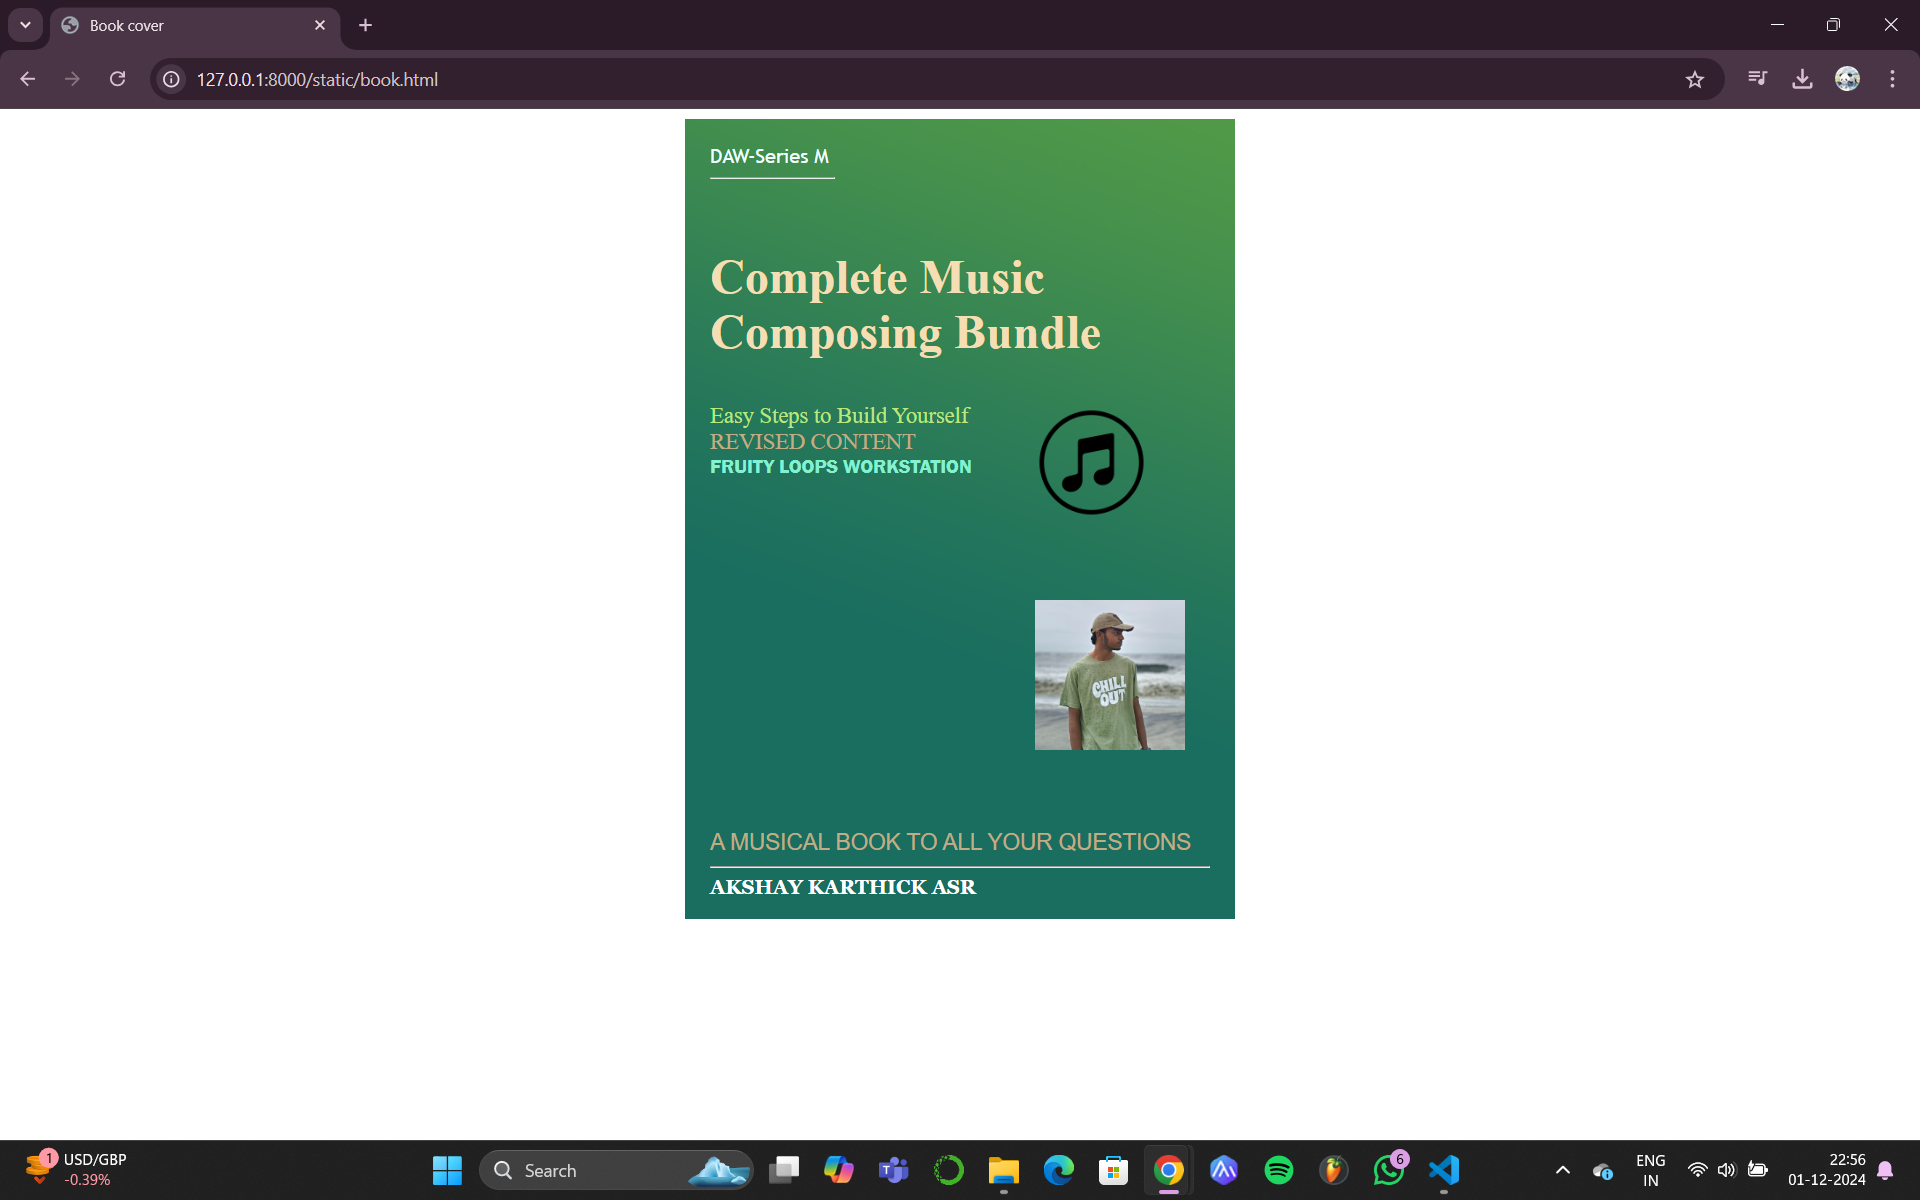
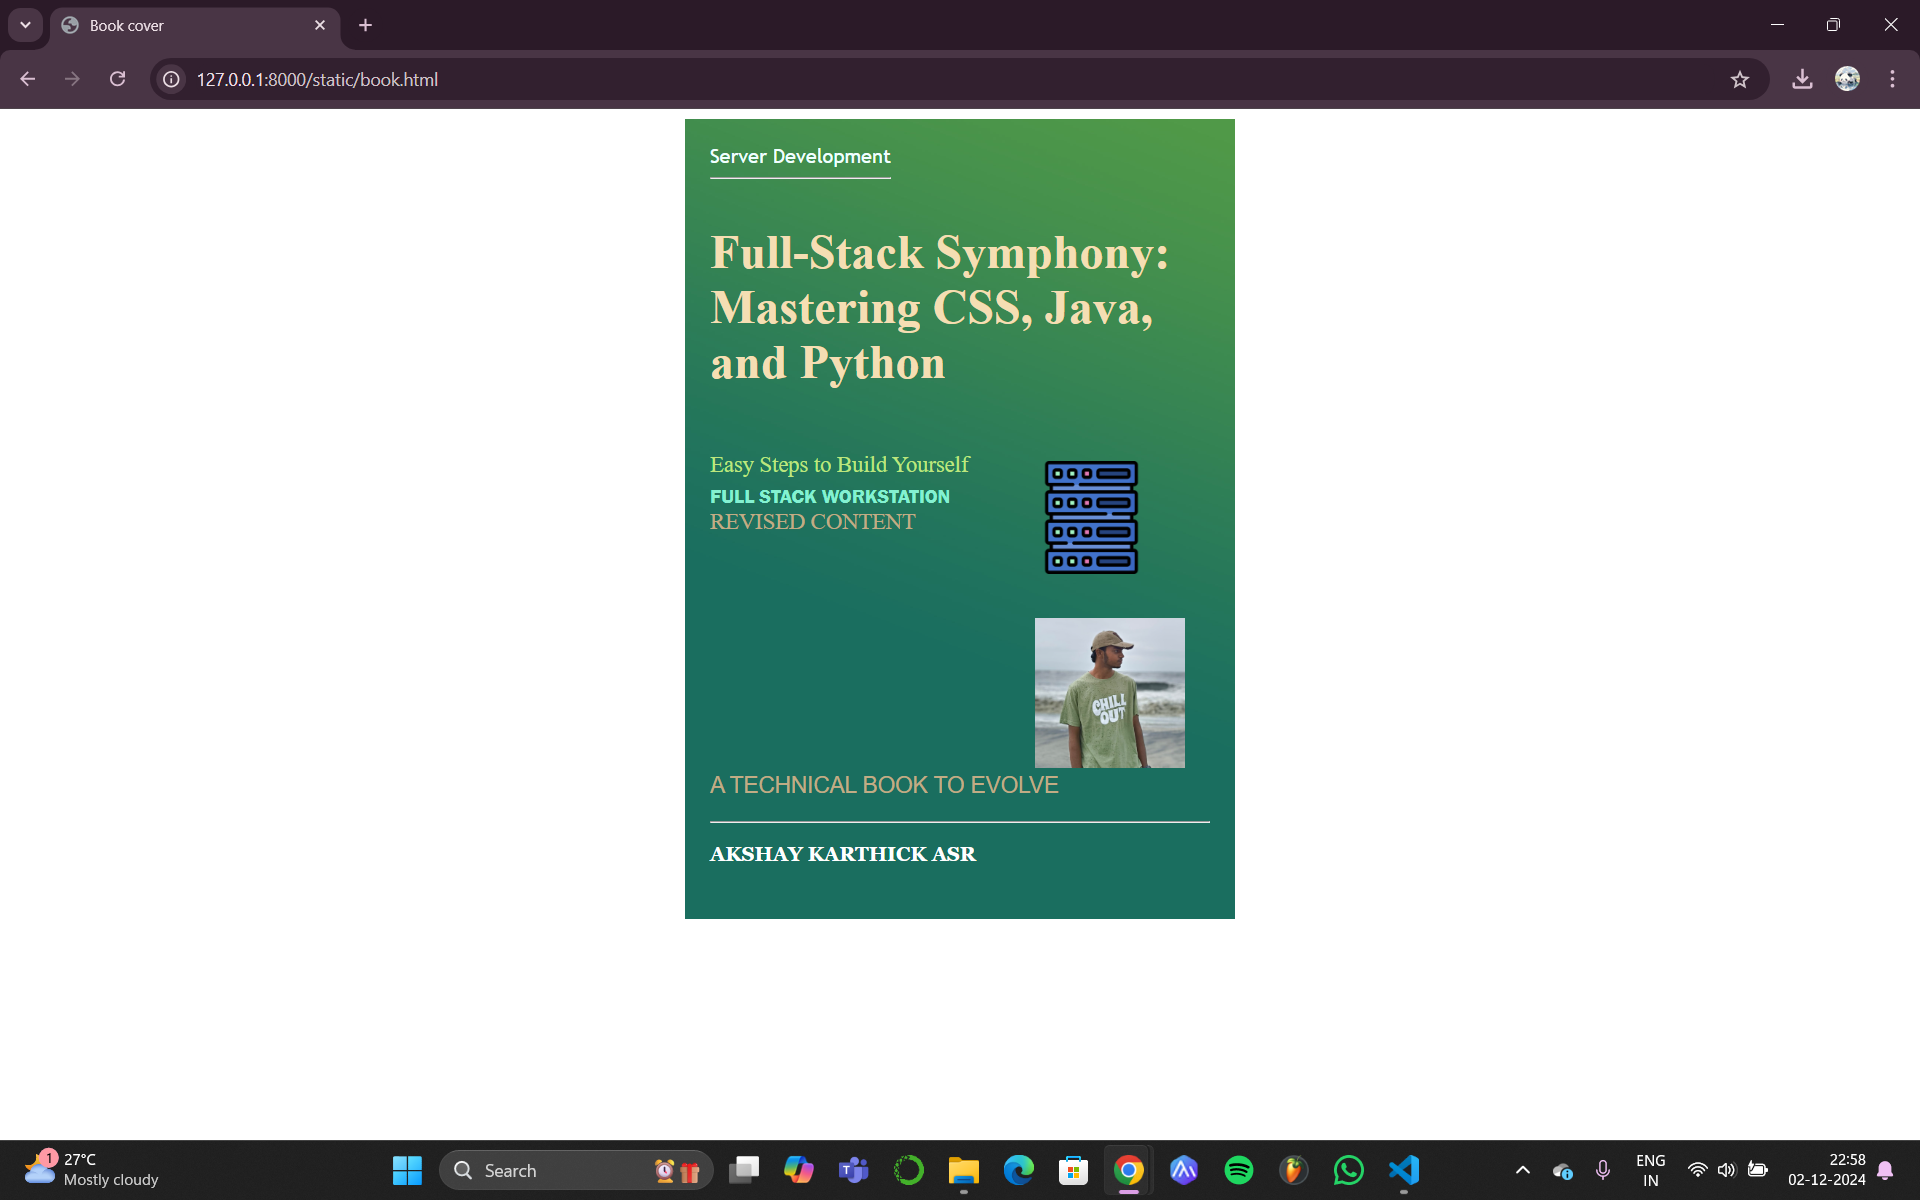
Success

diff --git a/Akshay/coverapp/static/book.html b/Akshay/coverapp/static/book.html
@@ -26,14 +26,14 @@
         
         
         .hrstyle{
-            width:100px;
+            width:145px;
         }
         .author{
         
             display: inline;
             position: relative;
             color:rgb(255, 255, 255);
-            top:170px;
+            top:100px;
             
             font-family:Georgia;
             font-size: medium;
@@ -44,13 +44,13 @@
             font-size: larger;
             text-align: left;
             position: relative;
-            top: 30px;
+            top: 10px;
         
         }
         .id {
             width:400px;
             position: relative;
-            top:180px;
+            top:100px;
             
         }
         .pub{
@@ -65,7 +65,7 @@
             font-size: medium;
             font-family: 'Franklin Gothic Medium', 'Arial Narrow', Arial, sans-serif;
             position:relative;
-            bottom:200px;
+            bottom:220px;
         
         }
         .subtitle{
@@ -73,18 +73,25 @@
             font-family:unicorn;
             font-size: large;
             position: relative;
-            top:40px;
+            top:35px;
+        }
+        .subtitle1{
+            color:azure;
+            font-family:unicorn;
+            font-size: large;
+            position: relative;
+            top:60px;
         }
         .sub{
             color:azure;
             font-family:Arial, Helvetica, sans-serif;
             font-size: large;
             position: relative;
-            top:340px;
+            top:250px;
         }
         .mypic{
             position: relative;
-            top: 135px;
+            top: 105px;
             left: 260px;
             width: 90px;
             height: 80px;
@@ -104,28 +111,28 @@
         <body>
         <div class="bookpage">
             <div class="insight">
-                DAW-Series M
+                Server Development
             </div>
             <div class="hrstyle">
                 <hr style="color:blanchedalmond">
             </div>
             <div class="booktitle">
-                <h1 style="font-family: 'Times New Roman', Times, serif; color:wheat;">Complete Music Composing Bundle</h1></div>
+                <h1 style="font-family: 'Times New Roman', Times, serif; color:wheat;">Full-Stack Symphony: Mastering CSS, Java, and Python</h1></div>
             <div class="subtitle" style="text-align: left;color: rgb(189, 229, 126);">
                  Easy Steps to Build Yourself
             </div>
-            <div class="subtitle" style="color: rgb(193, 172, 133);text-align: left;">
+            <div class="subtitle1" style="color: rgb(193, 172, 133);text-align: left;">
                  REVISED CONTENT
             </div>
             <div class="sub" style="color: rgb(193, 172, 133);text-align: left;">
-                A MUSICAL BOOK TO ALL YOUR QUESTIONS
+                A TECHNICAL BOOK TO EVOLVE
            </div>
 
             <div class="mypic">
                 <img src="Pic.jpg" width="120" height="120" >
             </div>
             <div class="lpic">
-                <img src="apple.png" width="90" height="90" >
+                <img src="apple (2).png" width="90" height="90" >
             </div>
             <div class="id">
                 <hr style="color:blanchedalmond">
@@ -134,7 +141,7 @@
                <p><b>AKSHAY KARTHICK ASR</b></p>
             </div>
             <div class="ed">
-                <b>FRUITY LOOPS WORKSTATION</b>
+                <b>FULL STACK WORKSTATION</b>
             </div>
         </div>
         </body>

diff --git a/README.md b/README.md
@@ -1,5 +1,5 @@
 # Ex.06 Book Front Cover Page Design
-## Date:01/12/2024
+## Date:02/12/2024
 
 ## AIM:
 To design a book front cover page using HTML and CSS.
@@ -60,14 +60,14 @@ Publish the website in the LocalHost.
         
         
         .hrstyle{
-            width:100px;
+            width:145px;
         }
         .author{
         
             display: inline;
             position: relative;
             color:rgb(255, 255, 255);
-            top:170px;
+            top:100px;
             
             font-family:Georgia;
             font-size: medium;
@@ -78,13 +78,13 @@ Publish the website in the LocalHost.
             font-size: larger;
             text-align: left;
             position: relative;
-            top: 30px;
+            top: 10px;
         
         }
         .id {
             width:400px;
             position: relative;
-            top:180px;
+            top:100px;
             
         }
         .pub{
@@ -99,7 +99,7 @@ Publish the website in the LocalHost.
             font-size: medium;
             font-family: 'Franklin Gothic Medium', 'Arial Narrow', Arial, sans-serif;
             position:relative;
-            bottom:200px;
+            bottom:220px;
         
         }
         .subtitle{
@@ -107,18 +107,25 @@ Publish the website in the LocalHost.
             font-family:unicorn;
             font-size: large;
             position: relative;
-            top:40px;
+            top:35px;
+        }
+        .subtitle1{
+            color:azure;
+            font-family:unicorn;
+            font-size: large;
+            position: relative;
+            top:60px;
         }
         .sub{
             color:azure;
             font-family:Arial, Helvetica, sans-serif;
             font-size: large;
             position: relative;
-            top:340px;
+            top:250px;
         }
         .mypic{
             position: relative;
-            top: 135px;
+            top: 105px;
             left: 260px;
             width: 90px;
             height: 80px;
@@ -138,28 +145,28 @@ Publish the website in the LocalHost.
         <body>
         <div class="bookpage">
             <div class="insight">
-                DAW-Series M
+                Server Development
             </div>
             <div class="hrstyle">
                 <hr style="color:blanchedalmond">
             </div>
             <div class="booktitle">
-                <h1 style="font-family: 'Times New Roman', Times, serif; color:wheat;">Complete Music Composing Bundle</h1></div>
+                <h1 style="font-family: 'Times New Roman', Times, serif; color:wheat;">Full-Stack Symphony: Mastering CSS, Java, and Python</h1></div>
             <div class="subtitle" style="text-align: left;color: rgb(189, 229, 126);">
                  Easy Steps to Build Yourself
             </div>
-            <div class="subtitle" style="color: rgb(193, 172, 133);text-align: left;">
+            <div class="subtitle1" style="color: rgb(193, 172, 133);text-align: left;">
                  REVISED CONTENT
             </div>
             <div class="sub" style="color: rgb(193, 172, 133);text-align: left;">
-                A MUSICAL BOOK TO ALL YOUR QUESTIONS
+                A TECHNICAL BOOK TO EVOLVE
            </div>
 
             <div class="mypic">
                 <img src="Pic.jpg" width="120" height="120" >
             </div>
             <div class="lpic">
-                <img src="apple.png" width="90" height="90" >
+                <img src="apple (2).png" width="90" height="90" >
             </div>
             <div class="id">
                 <hr style="color:blanchedalmond">
@@ -168,14 +175,13 @@ Publish the website in the LocalHost.
                <p><b>AKSHAY KARTHICK ASR</b></p>
             </div>
             <div class="ed">
-                <b>FRUITY LOOPS WORKSTATION</b>
+                <b>FULL STACK WORKSTATION</b>
             </div>
         </div>
         </body>
         
 
 </html>
-
 
 ```
 
